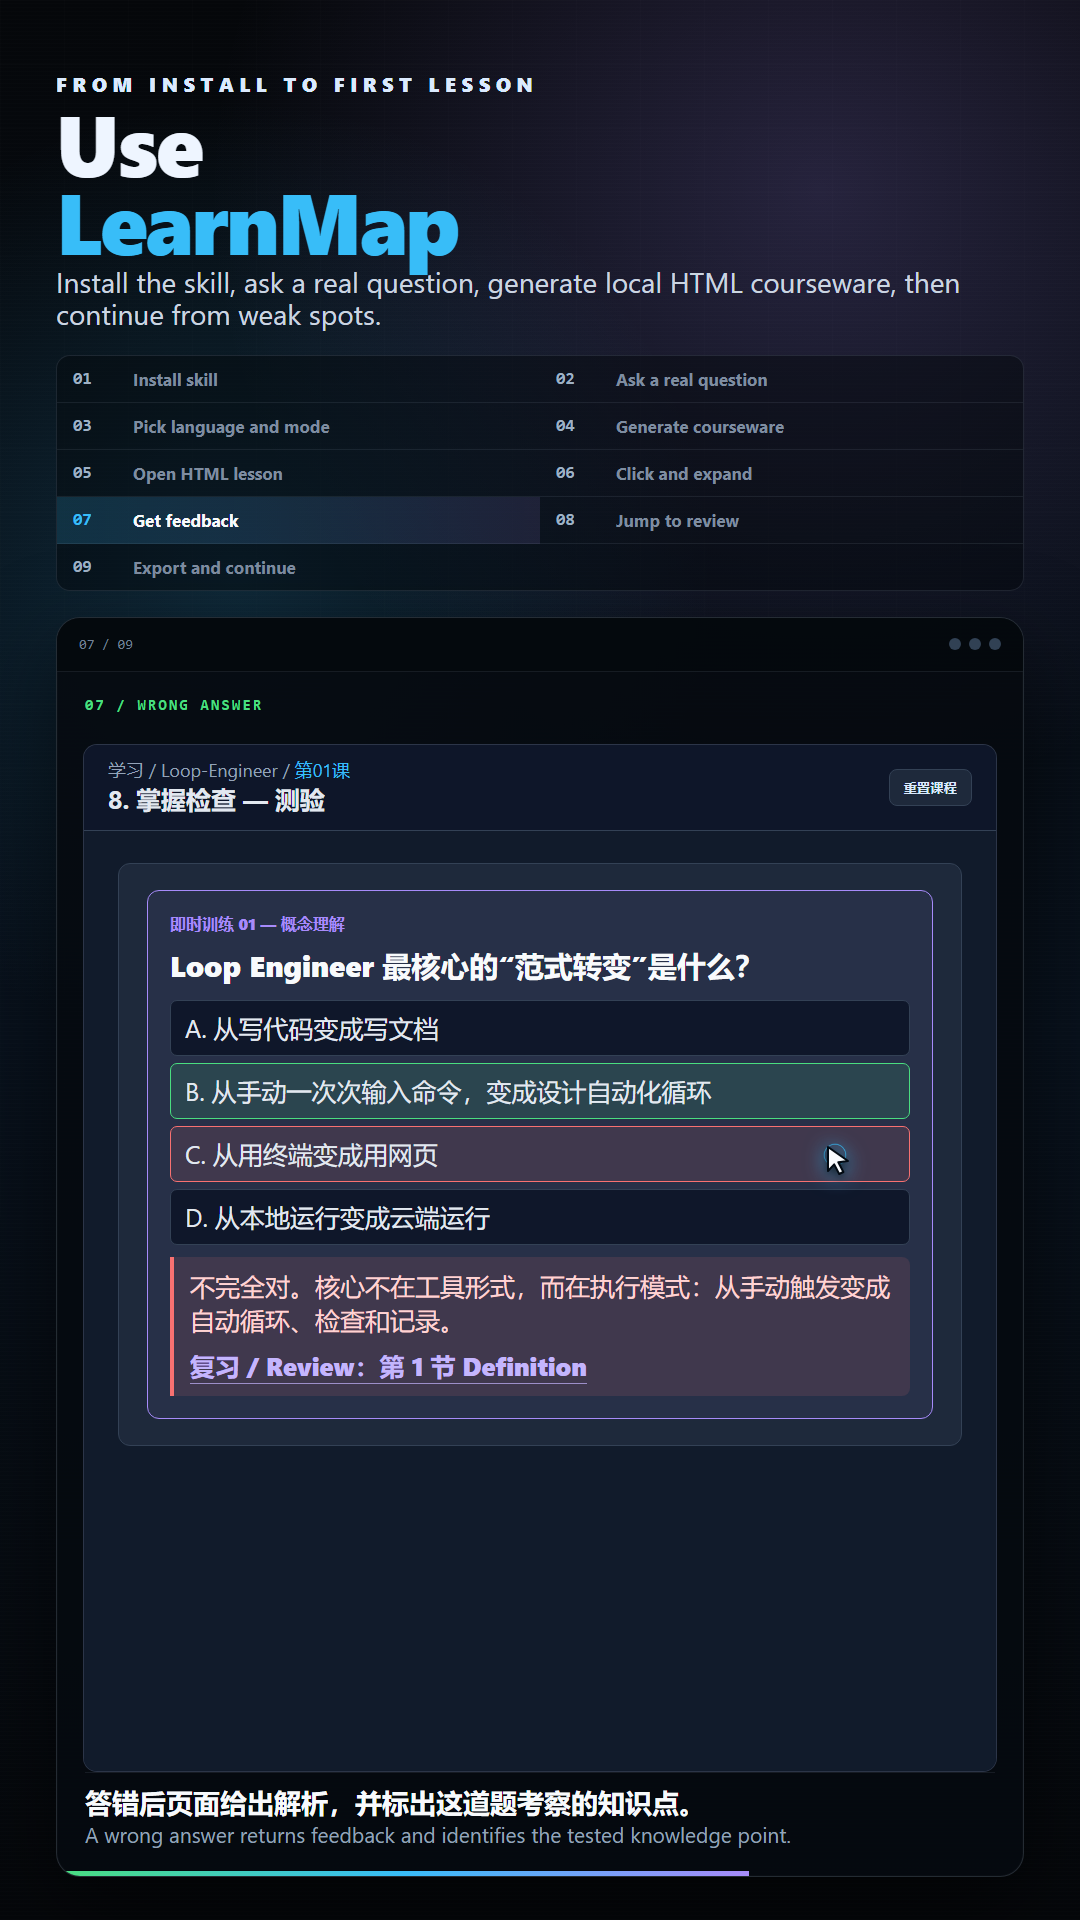
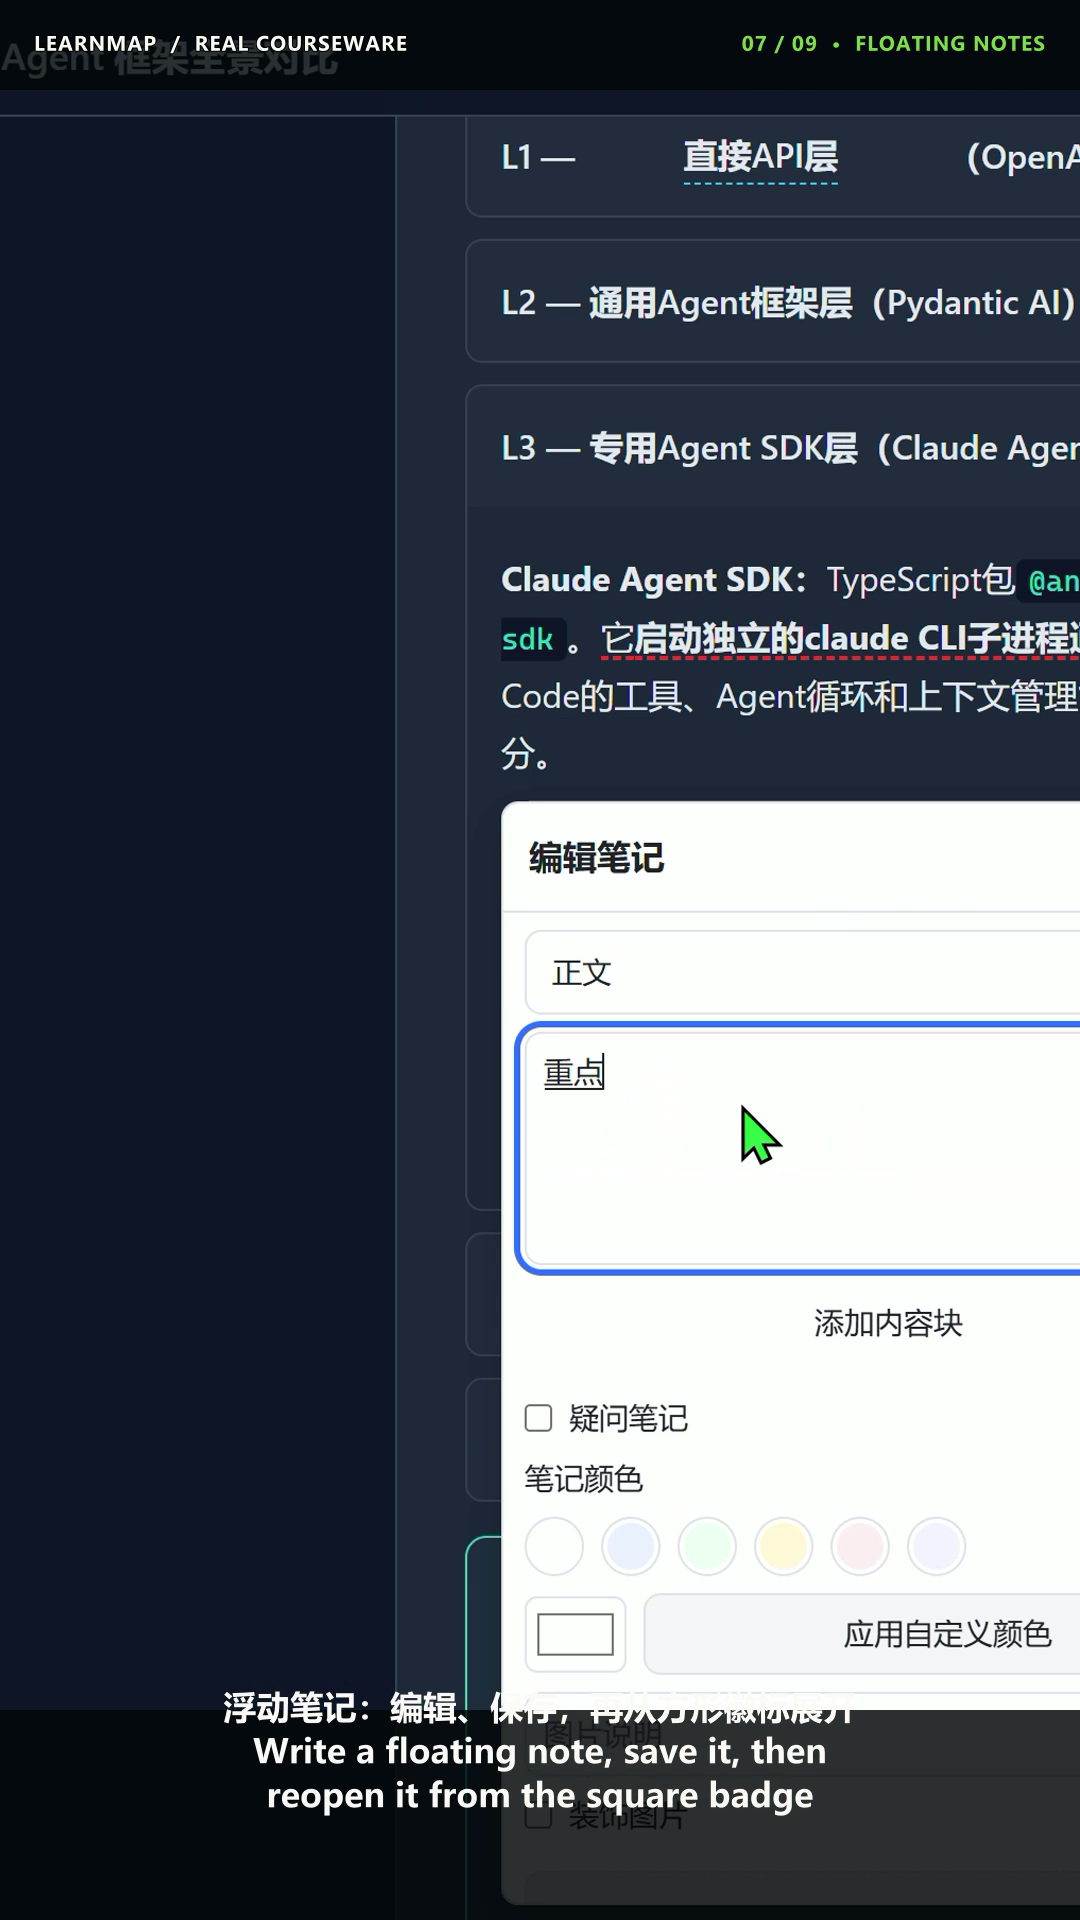
Upgrade LearnMap product walkthrough demo

diff --git a/docs/promo-video.html b/docs/promo-video.html
@@ -3,8 +3,8 @@
 <head>
   <meta charset="UTF-8">
   <meta name="viewport" content="width=device-width, initial-scale=1.0">
-  <meta name="description" content="LearnMap usage walkthrough video: install the skill, ask a real question, generate local HTML courseware, practice, export, and continue from weak spots.">
-  <title>LearnMap | Usage Walkthrough Video</title>
+  <meta name="description" content="LearnMap product walkthrough: install the skill, ask a real question, generate local HTML courseware, practice, export, and continue from weak spots.">
+  <title>LearnMap | Product Walkthrough</title>
   <style>
     :root {
       --bg: #05070a;
@@ -258,7 +258,7 @@
 <body>
   <nav class="nav">
     <div class="nav-inner">
-      <a class="brand" href="./index.html">LEARNMAP / WALKTHROUGH VIDEO</a>
+      <a class="brand" href="./index.html">LEARNMAP / PRODUCT WALKTHROUGH</a>
       <div class="links">
         <a href="./index.html">Home</a>
         <a href="./demos.html">Demos</a>
@@ -275,13 +275,13 @@
   <main>
     <section class="hero">
       <div>
-        <div class="eyebrow">REAL USAGE RECORDING</div>
+        <div class="eyebrow">PRODUCT WALKTHROUGH</div>
         <h1>Use <em>LearnMap</em></h1>
-        <p class="lead">A 60-second walkthrough of the complete workflow: install the skill, ask a real learning question, generate local HTML courseware, click through the lesson, recover from a wrong answer, export a learning record, and continue from weak spots.</p>
+        <p class="lead">A product walkthrough of the complete workflow: install the skill, ask a real learning question, generate local HTML courseware, click through the lesson, recover from a wrong answer, export a learning record, and continue from weak spots.</p>
       </div>
       <aside class="meta">
         <b>Format</b>: MP4 / H.264<br>
-        <b>Duration</b>: about 60 seconds<br>
+        <b>Type</b>: product walkthrough<br>
         <b>Captions</b>: Chinese + English<br>
         <b>Voiceover</b>: none
       </aside>

diff --git a/docs/index.html b/docs/index.html
@@ -434,7 +434,7 @@
       <div class="actions">
         <a class="btn primary" href="./demos.html">Explore demos</a>
         <a class="btn" href="#install">Install skill</a>
-        <a class="btn" href="#walkthrough">Watch 60s walkthrough</a>
+        <a class="btn" href="#walkthrough">Watch product walkthrough</a>
       </div>
       <div class="link-strip" aria-label="LearnMap links">
         <a href="https://github.com/lwbscu/learnmap/blob/main/README.cn.md">中文</a>
@@ -466,8 +466,8 @@
   </section>
 
   <section class="section" id="walkthrough">
-    <h2>Usage Walkthrough</h2>
-    <p class="lead">A 60-second recorded walkthrough showing the full path: install, ask, invoke, generate, open, interact with the HTML lesson, recover from a wrong answer, export, and continue.</p>
+    <h2>Product Walkthrough</h2>
+    <p class="lead">A recorded product walkthrough showing the full LearnMap flow: install, ask, invoke, generate, open, interact with the HTML lesson, recover from a wrong answer, export, and continue.</p>
     <div class="demo-video-card">
       <video class="demo-video" controls preload="metadata" playsinline poster="./assets/learnmap-demo-poster.png">
         <source src="./assets/learnmap-demo-16x9.mp4" type="video/mp4">

diff --git a/README.en.md b/README.en.md
@@ -28,7 +28,7 @@ LearnMap is an Agent Skill that turns a vague learning request into mapped, inte
 
 <p align="center">
   <a href="https://lwbscu.github.io/learnmap/demos.html#walkthrough">
-    <img src="docs/assets/learnmap-demo-poster.png" alt="Watch the LearnMap 60-second usage walkthrough" width="900">
+    <img src="docs/assets/learnmap-demo-poster.png" alt="Watch the LearnMap product walkthrough" width="900">
   </a>
   <br>
   <a href="https://lwbscu.github.io/learnmap/demos.html">Open the bilingual LearnMap Demo Center</a>

diff --git a/README.md b/README.md
@@ -28,7 +28,7 @@ LearnMap is an Agent Skill that turns a vague learning request into mapped, inte
 
 <p align="center">
   <a href="https://lwbscu.github.io/learnmap/demos.html#walkthrough">
-    <img src="docs/assets/learnmap-demo-poster.png" alt="Watch the LearnMap 60-second usage walkthrough" width="900">
+    <img src="docs/assets/learnmap-demo-poster.png" alt="Watch the LearnMap product walkthrough" width="900">
   </a>
   <br>
   <a href="https://lwbscu.github.io/learnmap/demos.html">Open the bilingual LearnMap Demo Center</a>